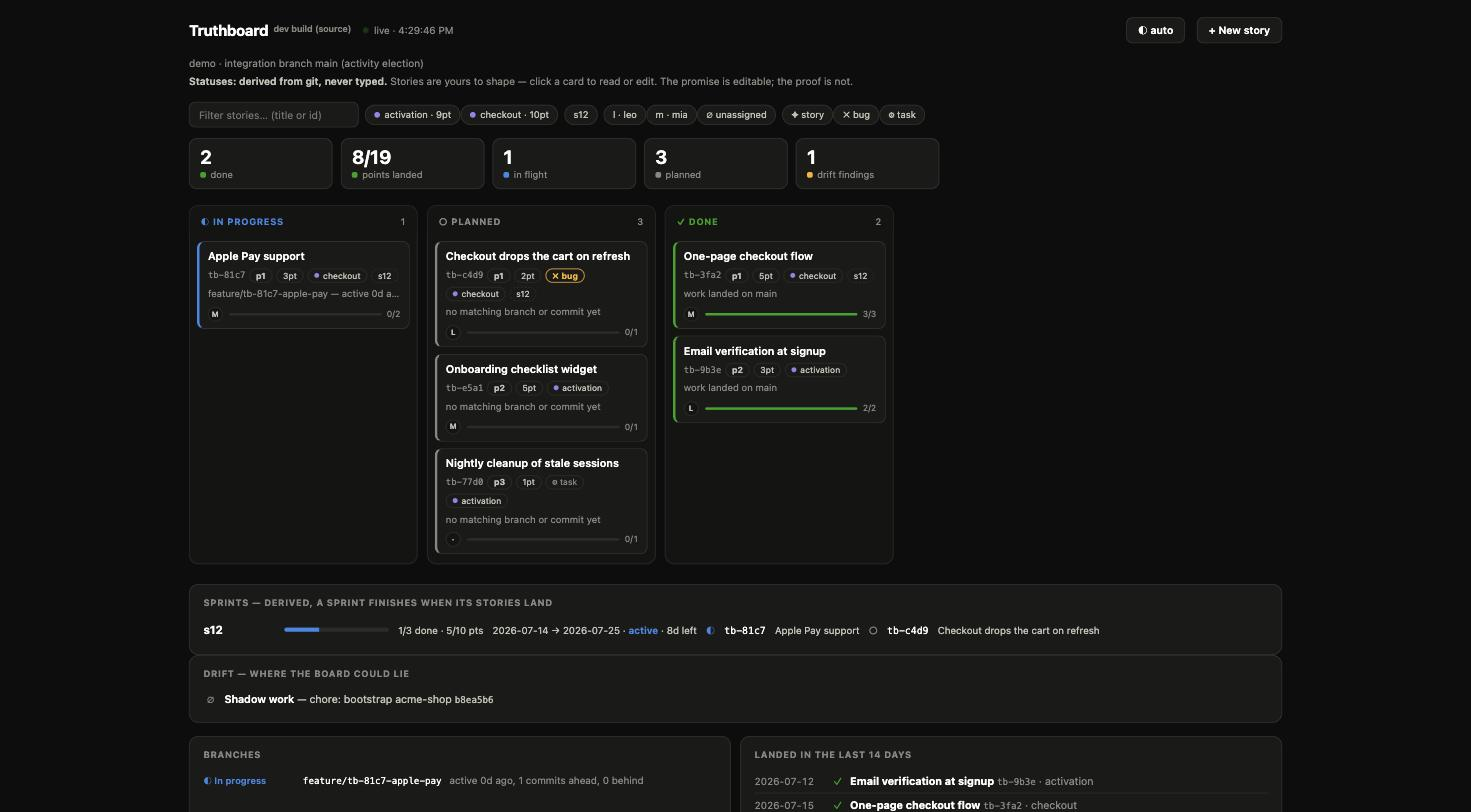
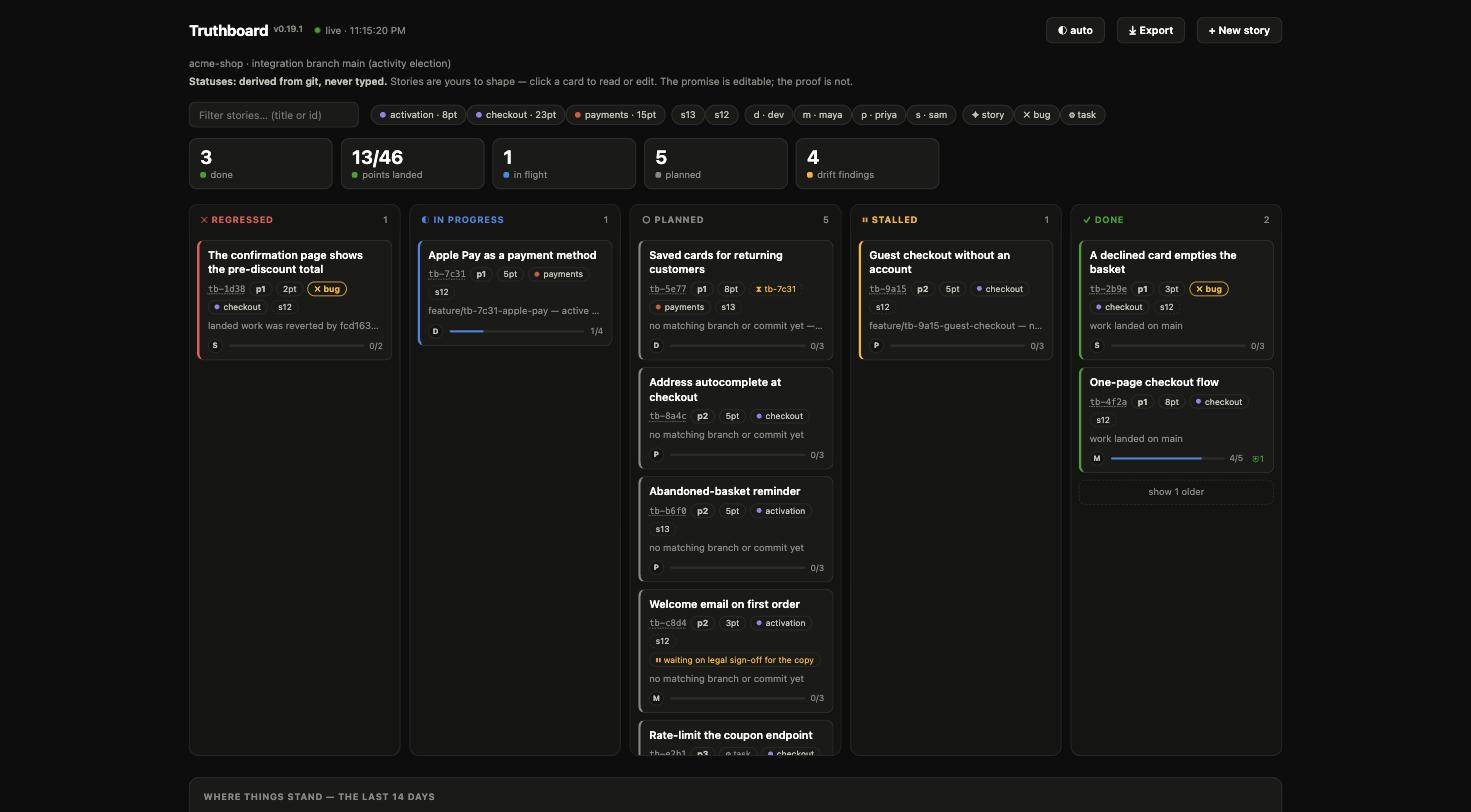
Show what installs, and walk through the first five minutes
Three captures from acme-shop against the current build, replacing two
from 2026-07-17 that predated the redesign. The captions argue rather
than describe: nobody moved a card; the two chips a person did write are
the two things git cannot know; a landed story at 0/3 is a promise nobody
read back. Adds the planning pair the page described and never showed.

Adds "Your first five minutes" — the real output of init, spec new and
audit, unabridged, so a reader knows what they are about to see before
they run it. And a map at the top: 850 lines organised by feature
philosophy serve the reader who already understands the tool.

Spec: tb-8de2

diff --git a/README.md b/README.md
@@ -9,27 +9,94 @@ digest are computed from branches, merges, and commit trailers. On repos with
 no specs it runs as a pure read-only auditor, and either way it can check
 your existing tracker's claims against what the repo proves.
 
+**Start here** — [what it looks like](#what-it-looks-like) ·
+[install](#install) · [your first five minutes](#your-first-five-minutes) ·
+[spec mode](#spec-mode--the-tracker) · [audit mode, no setup](#audit-mode--works-on-any-repo-no-specs-needed)
+
+<details>
+<summary><b>Everything else</b> — the rest of this page, by what you came for</summary>
+
+| You want to… | Section |
+| --- | --- |
+| See it before installing | [What it looks like](#what-it-looks-like) |
+| Install it | [Install](#install) · [Quick start](#quick-start-in-an-existing-project) |
+| Know what the first commands print | [Your first five minutes](#your-first-five-minutes) |
+| Write and track stories | [Spec mode](#spec-mode--the-tracker) |
+| Point an AI agent at it | [MCP](#mcp--agents-as-first-class-citizens) |
+| Run it on a repo with no specs | [Audit mode](#audit-mode--works-on-any-repo-no-specs-needed) |
+| Plan a sprint, brief a stakeholder | [Sprint planning and the summary](#sprint-planning-and-the-stakeholder-summary) |
+| Know how long work actually takes | [Flow](#flow--how-long-work-actually-takes-timed-by-git) |
+| Prove a sign-off can be re-checked | [Evidence](#evidence-a-tick-that-can-be-re-checked) |
+| Arrive with an existing backlog | [Import](#import--arriving-with-a-backlog-you-already-have) |
+| Publish the board as issues | [Mirror](#mirror--for-the-people-who-never-open-a-terminal) |
+| Answer "what changed since…?" | [What changed since](#what-changed-since--the-standup-question) |
+| Stay in the terminal | [Terminal board](#terminal-board--the-same-truth-no-browser) |
+| Share a board with the team | [Web board](#web-board--for-the-people-who-used-to-ask-whats-the-status) · [multi-machine](#multi-machine-a-board-that-tracks-the-remote) |
+| Cover several repos at once | [Multi-repo](#multi-repo-one-board-over-n-repositories) |
+| Run it in CI | [GitHub Action](#github-action) |
+| Use an LLM (optional) | [LLM assist](#llm-assist--optional-explicit-never-a-source-of-truth) |
+
+</details>
+
 ## What it looks like
 
-![The Truthboard web board: derived kanban columns, stat tiles, filters, and the sprint rollup](docs/screenshots/board.jpg)
+Every picture below is a live board over a demo shop — `acme-shop`, three
+epics and two sprints, rebuilt from nothing by
+[`docs/demo/build-demo-repo.sh`](docs/demo/build-demo-repo.sh) so you can
+run the same commands against the same repo and get the same answers.
 
-Every status on this board was computed, not typed. **Apple Pay support**
-is *in progress* because a branch carrying its id has commits;
-**One-page checkout flow** is *done* because its work landed on main —
-the card's evidence line says so. Cards carry the story's intent: priority,
-points, `bug`/`task` type badges, epic and sprint tags, and the owner's
-avatar. The filter row totals points per epic, and the sprint panel is
-pure arithmetic plus a date window: `s12 · 1/3 done · 5/10 pts ·
-2026-07-14 → 2026-07-25 · active, 8d left` — nothing there can be edited,
-because none of it is an opinion.
+![The derived kanban: five status columns, stat tiles, epic and sprint filters, and cards carrying a story's intent](docs/screenshots/board.jpg)
 
-![Story detail: Gherkin acceptance with sign-off checkboxes and the derived-truth panel](docs/screenshots/story-detail.jpg)
+**Nobody moved a card onto this board.** *Apple Pay* sits in progress
+because a branch carrying its id has commits; *One-page checkout flow* is
+done because its work reached `main`; *The confirmation page shows the
+pre-discount total* is red because the commit that landed it was reverted,
+and the card names the revert. *Guest checkout* went stalled by itself
+after sixteen silent days. There is no command that sets any of those, so
+none of them can be wrong on purpose.
 
-A story opens into its intent — goal and Given/When/Then acceptance,
-where checking a box records *human sign-off*, deliberately separate from
-delivery — followed by the **derived truth** panel: the status, the
-commit that landed it, and every signal that links work to this spec.
-The promise is editable; the proof is not.
+Two chips are the exception that proves the rule, because they are the
+things git cannot know. *Welcome email* carries **waiting on legal sign-off
+for the copy** — a person wrote that, because history can prove work
+stopped and never why. *Saved cards* carries **⚡ tb-7c31**: it declared a
+prerequisite, so it is not startable, and the next agent asking for work
+will be handed something else.
+
+The bars are acceptance, and they are deliberately not status. *A declined
+card* landed at **0/3** — delivered with a promise nobody read back, which
+is why the drift tile counts 4. *One-page checkout* reads **4/5 ⛨1**: four
+criteria signed off, one of them naming evidence that gets re-checked on
+every audit.
+
+![A story's declared intent beside its derived truth: acceptance sign-off, the landing commit, and every signal that linked the work](docs/screenshots/story-detail.jpg)
+
+**This is the whole argument in one dialog.** The left panel is *declared
+intent* — owner, points, epic, sprint, priority, the branch glob — every
+field a human types, all of it editable. The right panel is *derived
+truth*, and it has no edit control anywhere because there is nothing there
+to set: the status is `work landed on main`, the landing is commit
+`ffb8b19`, and the linking line says exactly how this work was recognised
+as this story. Acceptance sits above both, because signing off a promise
+is a human claim about the world, not a fact about the repository — and
+one criterion here names `src/checkout/onepage.js` as its proof, so if
+that file disappears the audit says so rather than letting the tick
+outlive it.
+
+![Where things stand and the sprint about to start: delivered, paused with reasons, and a planning panel that refuses to project a velocity](docs/screenshots/planning.jpg)
+
+**The two views nobody needs a terminal for.** *Where things stand*
+answers the standup in the language of someone who does not read git —
+delivered, being worked on, paused, not started — and every paused story
+carries the reason with the most standing: a human's hold note, else the
+title of the story blocking it, else how long it has been quiet. The
+footnote is the honesty: one story has no estimate, so it is missing from
+the point totals rather than silently counted as zero.
+
+*The sprint about to start* is the planning meeting, derived. It shows
+what rolls over, what is already committed, and the load — `28 pts on the
+table` against `s12 landed 13`. Under the bar it says **one prior sprint,
+not a velocity**, because that is one data point, and a tool that turned
+it into a forecast would be typing a status by other means.
 
 ## Install
 
@@ -90,6 +157,105 @@ That's the whole setup. Write your first story (`truthboard spec new` or
 the board's **+ New story**), work on a branch containing its id, and the
 card moves itself. In npm projects, init also wires `npm run board`,
 `board:status`, `board:stop`, and `board:audit`.
+
+## Your first five minutes
+
+What the commands above actually print, in order, on a repository that has
+never seen this tool. Nothing here is abridged.
+
+**1. Adoption tells you every file it touched.** It writes inside your
+repo and nowhere else, so the whole change is reviewable in a diff — and
+it hands you the commit rather than making it, because wiring is intent
+and intent gets reviewed like code:
+
+```console
+$ truthboard init --agents --hooks
+initialized .truthboard/specs
+  package.json: none, npm scripts skipped
+  .mcp.json: registered the truthboard MCP server
+  .vscode/mcp.json: registered the truthboard MCP server (VS Code / GitHub Copilot)
+  AGENTS.md: working agreement written
+  CLAUDE.md: agreement import written
+  commit-msg hook: installed (warns on missing trailer, never blocks)
+  this wiring is intent — commit it like code (or re-run with --commit):
+    git add .truthboard .mcp.json .vscode/mcp.json AGENTS.md CLAUDE.md && git commit -m "Track work with truthboard"
+
+Next:
+  truthboard spec new "Your first unit of work"   write intent once
+  truthboard audit                                 everything else is derived
+```
+
+**2. A story is one markdown file, and you are told how to link work to
+it.** Three ways, strongest first — you only ever need one:
+
+```console
+$ truthboard spec new "Add email verification" --owner emmanuel --points 3
+created .truthboard/specs/tb-e0f7-add-email-verification.md
+
+  id:      tb-e0f7
+  branch:  */tb-e0f7-* (suggested glob — any branch containing "tb-e0f7" links too)
+  trailer: Spec: tb-e0f7 (add to commits for the strongest link)
+
+Edit the Goal and Acceptance sections, then: truthboard brief tb-e0f7
+```
+
+Open that file and fill in the Goal and the Acceptance checklist. That is
+the *only* typing this tool asks of you. There is no status field in it,
+and no command that would set one.
+
+**3. Everything else is computed.** Work on a branch with the id in its
+name, end your commits with `Spec: tb-e0f7`, and `truthboard audit` reads
+the repository back to you. Run against the demo shop, it prints:
+
+```console
+$ truthboard audit
+TRUTHBOARD AUDIT  .
+integration branch: main (via activity election)
+
+SPEC BOARD (intent from .truthboard/specs — status derived, never typed)
+  REGRESSED    tb-1d38 The confirmation page shows the pre-discount total · p1 · checkout · s12
+    landed work was reverted by fcd1636 (reverts 265aaaf)
+  IN-PROGRESS  tb-7c31 Apple Pay as a payment method · p1 · payments · s12 [feature/tb-7c31-apple-pay]
+    feature/tb-7c31-apple-pay — active 0d ago, 2 commits ahead, 0 behind
+  PLANNED      tb-5e77 Saved cards for returning customers · p1 · payments · s13
+    no matching branch or commit yet — waiting on tb-7c31
+  STALLED      tb-9a15 Guest checkout without an account · p2 · checkout · s12 [feature/tb-9a15-guest-checkout]
+    feature/tb-9a15-guest-checkout — no commits for 16 days (1 unmerged)
+  DONE         tb-4f2a One-page checkout flow · p1 · checkout · s12
+    work landed on main
+
+SPRINTS (arithmetic over derived statuses — a sprint finishes when its stories land)
+  s12  3/7 done · 13/28 pts · 2026-08-09 → 2026-08-20 · active, 5d left
+
+DRIFT REPORT
+  Stale promises (1): work that stopped without landing
+    - feature/tb-9a15-guest-checkout: no commits for 16 days (1 unmerged)
+  Unverified acceptance (2): landed work whose criteria were never ticked
+    - tb-2b9e A declined card empties the basket — 0 of 3 criteria ticked
+    - tb-4f2a One-page checkout flow — 4 of 5 criteria ticked
+```
+
+(Commit hashes and the day counts differ on your machine: the demo script
+dates its history relative to the day you run it, so the board is always
+mid-flight rather than frozen on the day it was recorded.)
+
+Read the second line of every entry: each status arrives with the evidence
+that produced it. That is the part you can check, and the reason you never
+have to take the first line on trust.
+
+**4. Nothing so far required a decision about tooling.** `truthboard ui`
+puts the same thing in a browser for everyone who does not want a
+terminal, `truthboard board` keeps it in one, and `truthboard mcp` hands
+it to an AI agent. All three read the same derivation — there is no
+second code path that could disagree.
+
+Try it against the demo shop before your own repo:
+
+```sh
+docs/demo/build-demo-repo.sh /tmp/acme-shop   # a repo with a real history
+truthboard audit /tmp/acme-shop
+cd /tmp/acme-shop && truthboard ui
+```
 
 ## Spec mode — the tracker
 
